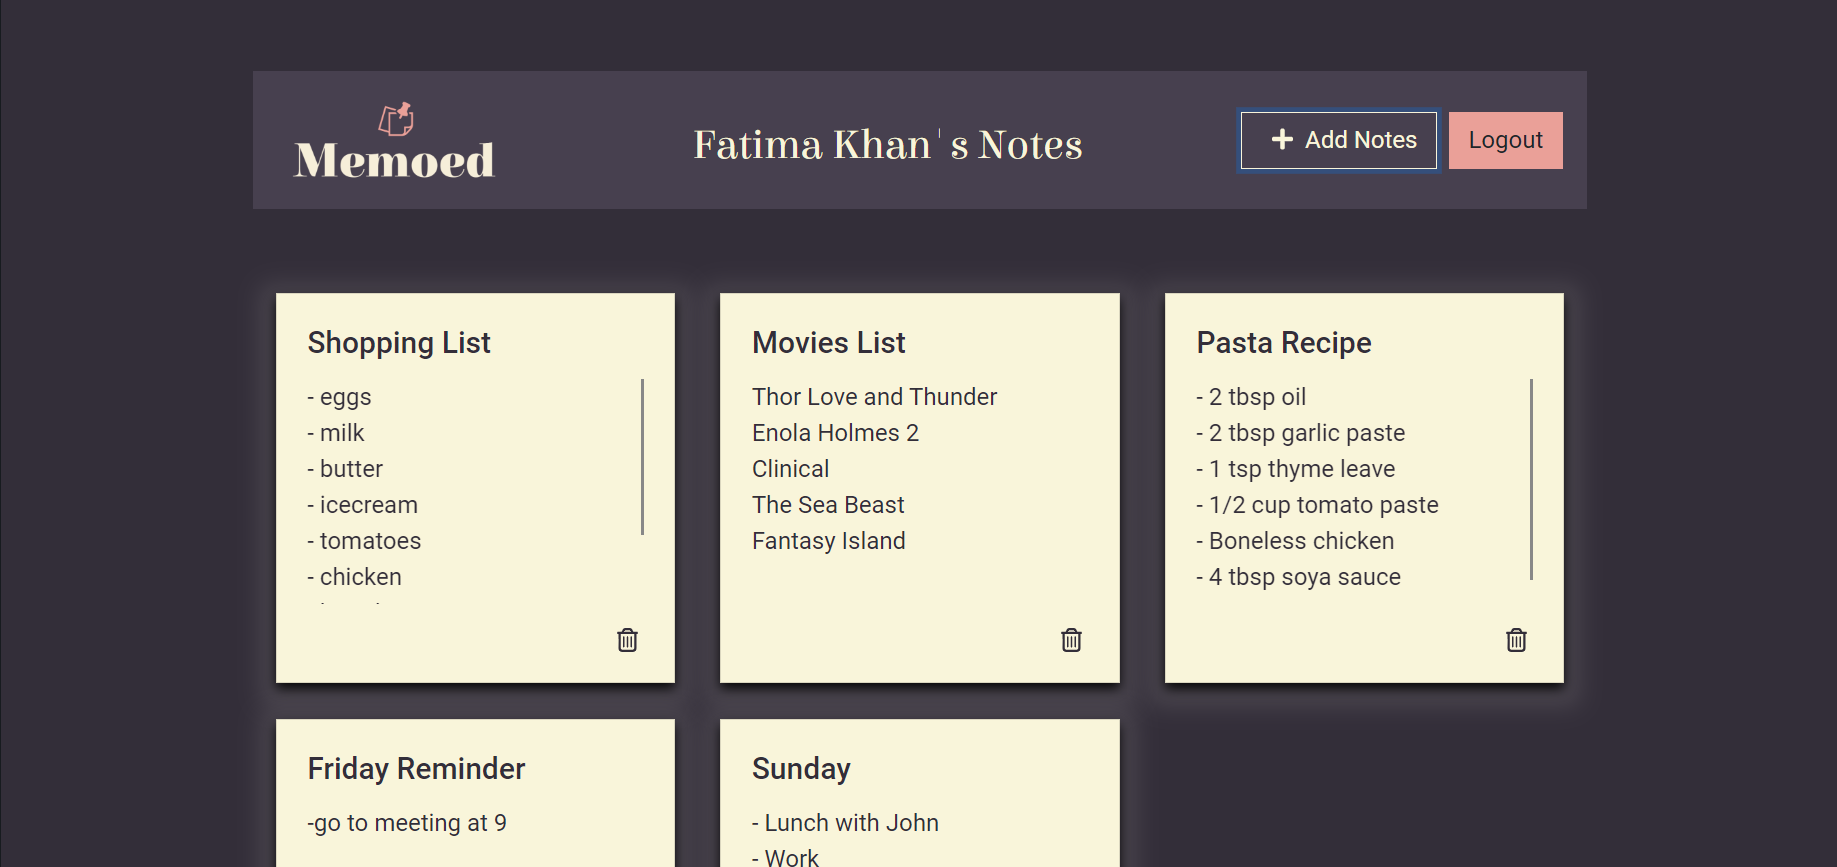
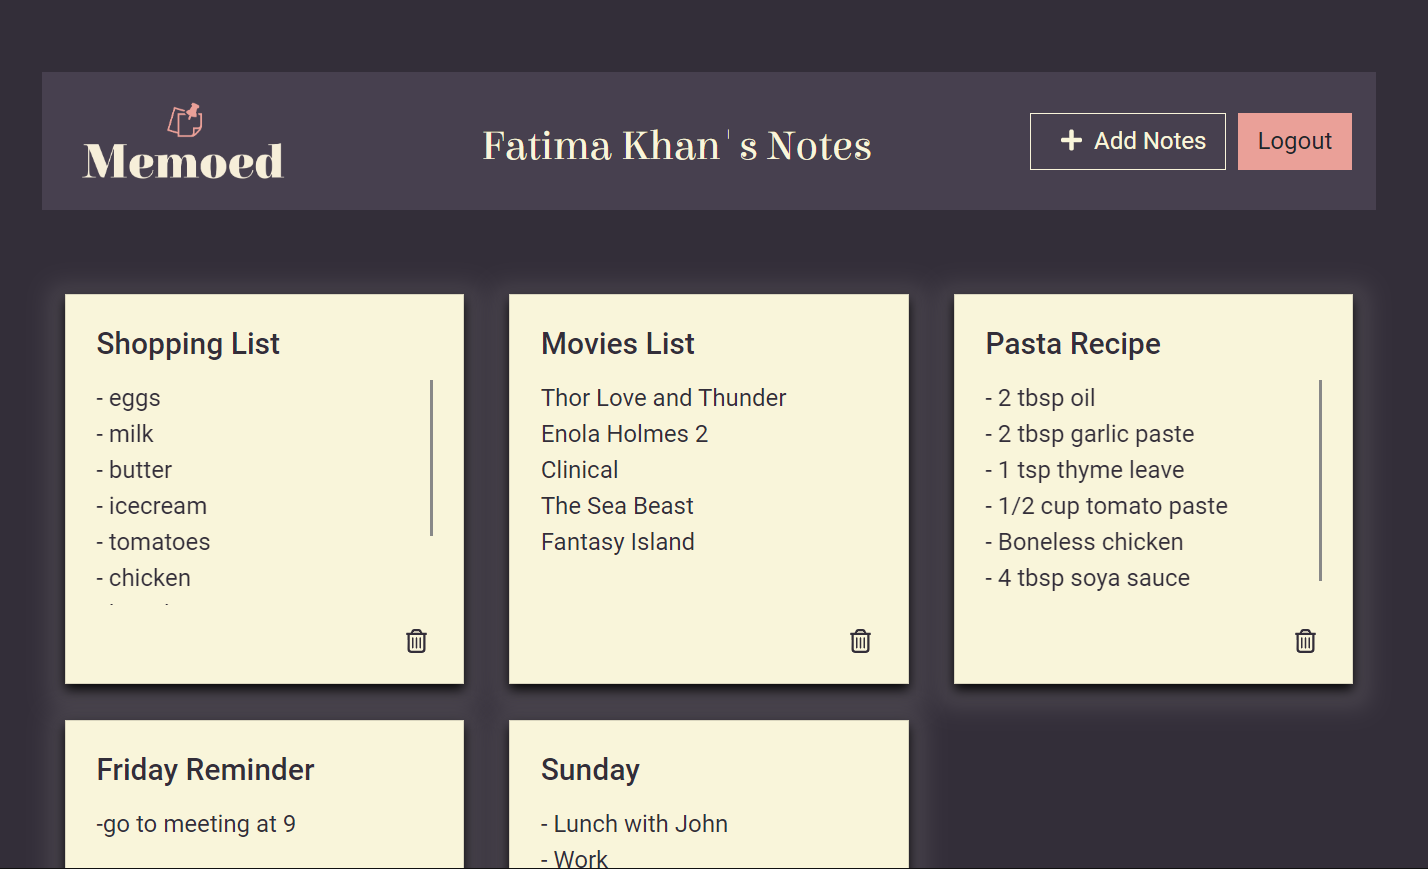
polishing

diff --git a/src/components/Home.scss b/src/components/Home.scss
@@ -11,19 +11,10 @@
     }
     h1{
         color: white; 
-        font-size: 4.2vw; 
+        font-size: clamp(30px, 4.2vw, 52px); 
         margin: 0; 
         font-family: 'Fred'; 
         font-weight: 400;
-
-        img{
-            width: 45px;
-            margin-left: 18px;
-            opacity: 0; 
-            height: auto; 
-            animation: rotateIn 1s linear both;
-            animation-delay: 1.4s;
-        }
     }
     h2{
         color: #a09e9e;
@@ -121,16 +112,7 @@
         left: 13%; //away from sidebar
     }
     h1{
-        font-size: 35px;
-        &::before{
-            margin-top: -22px; 
-            left: 0; 
-        }
-        &::after{
-             font-size: 12px;
-            margin-top: 20px; 
-            margin-left: 18px; 
-        }
+       
         img{
             width: 30px;
         }
@@ -151,16 +133,6 @@
         width: 75%; 
     }
     h1{
-        &::before{
-            margin-top: -22px; 
-            left: 0; 
-            font-size: 12px;
-        }
-        &::after{
-             font-size: 12px;
-            margin-top: 8px; 
-            margin-left: 18px; 
-        }
         img{
             width: 25px;
         }
@@ -180,9 +152,7 @@
             width: 100%;
             left: 7%;
         }
-        h1{
-            font-size: 30px;
-        }
+        
     }
 
 }

diff --git a/src/components/Layout.scss b/src/components/Layout.scss
@@ -55,7 +55,7 @@
         max-height: 90%;
 //stopped here
         h1{
-            font-size: 4.2vw; 
+            font-size: clamp(30px, 4.2vw, 52px); 
             font-family: 'Fred';
             color:#8EE3EF; 
             font-weight: 400;
@@ -66,7 +66,7 @@
 
         }
         p{
-            font-size: 1vw; 
+            font-size: clamp(13px, 1.04vw, 15px); 
             color: white; 
             font-family: sans-serif;
             font-weight: 300;
@@ -87,16 +87,6 @@
 }
 
 @media  screen and (max-width: 1024px){
-.about-page, 
-.contact-page,
-.projects-page{
-    .textarea{
-        p{
-        font-size: 15px;
-        }
-}
-
-}
     .tags{
         left: 100px;
     }
@@ -105,6 +95,11 @@
     .tags{
         left: 75px;
     }
+    .textarea{
+        p{
+        margin-left: 5%;
+    }
+}
 }
 @media  screen and (max-width: 500px){
 .about-page{
@@ -129,9 +124,6 @@
             h1{
                 margin-top: -110px;
                 font-size: 22px;
-            }
-            p{
-            font-size: 11px;
             }
     }
     }

diff --git a/src/components/Projects.js b/src/components/Projects.js
@@ -12,19 +12,16 @@ const Projects = () => {
     const[letterClass, setLetterClass] = useState('text-animate');
 
     useEffect(() => {
- 
           setLetterClass('text-animate-hover')
- 
      }, [])
     return ( 
         <>
         <div className="container projects-page">
             <div className="textarea">
-        
                 <div className="row row-cols-1 row-cols-md-3 card-deck">
                     <div className="col mb-5">
                         <div className="card h-100">
-                            <img src={Memoed} className="card-img-top " alt="..."/>
+                            <img src={Memoed} className="card-img-top "/>
                             <div className="card-body">
                                 <h5 className="card-title">Memoed - Notes Taking App</h5>
                                     <p className="card-text">A basic notes taking application built using ReactJS.

diff --git a/src/components/Projects.scss b/src/components/Projects.scss
@@ -75,3 +75,6 @@ p.card-text{
 .card-img-top{
     height: 15vw;
 }
+.col{
+    max-width: 90%;
+}
